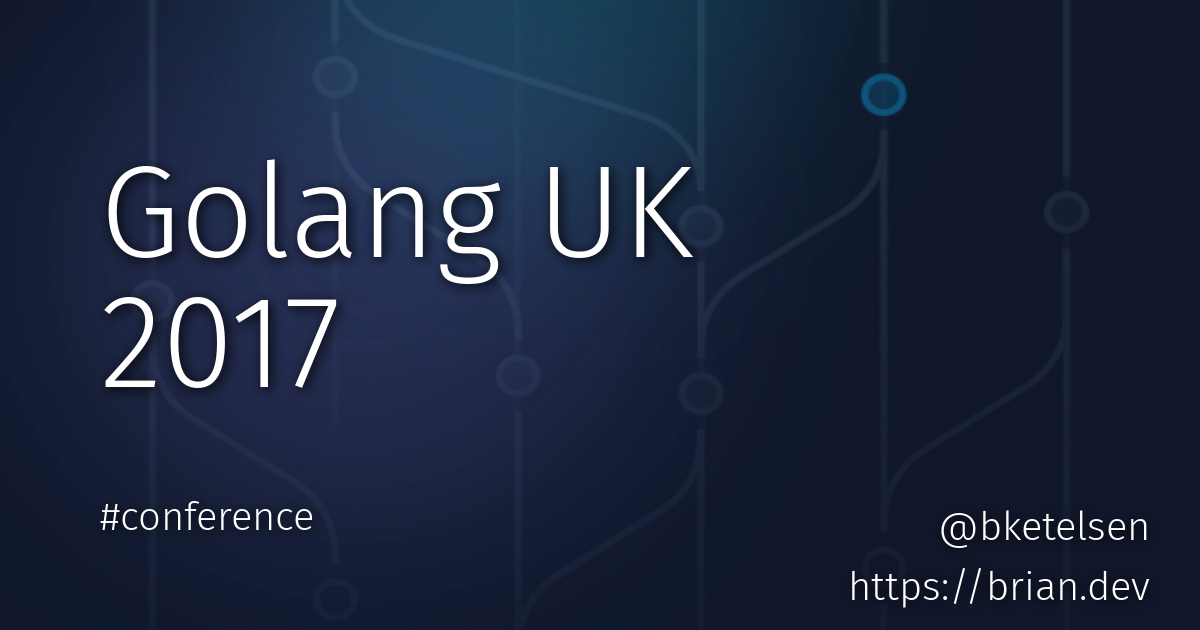
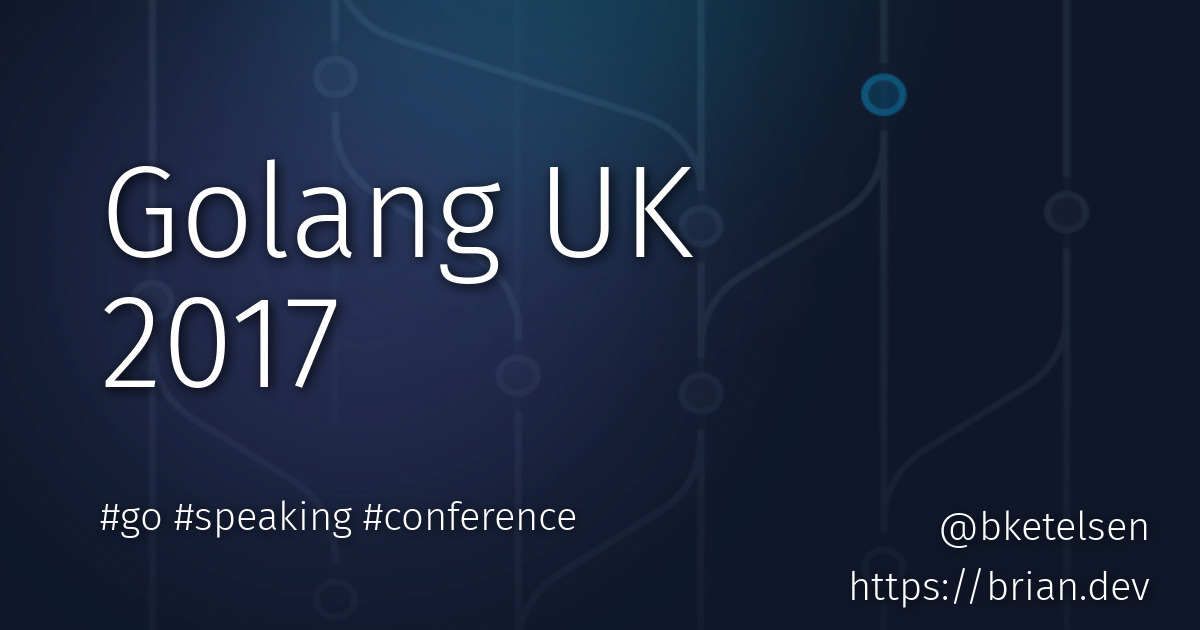
update tags

Changed region(s): [[0.0925, 0.7841, 0.4933, 0.8444]]

diff --git a/src/data/authors/default.md b/src/data/authors/default.md
@@ -2,7 +2,7 @@
 name: Brian Ketelsen
 avatar: /fixed/images/logo.png
 occupation: Cloud Developer Advocate
-company: Amazon/aws
+company: Amazon/AWS
 email: mail@bjk.fyi
 twitter: https://twitter.com/bketelsen
 linkedin: https://www.linkedin.com/bketelsen

diff --git a/src/data/elsewhere/stuttgart-go-meetup.md b/src/data/elsewhere/stuttgart-go-meetup.md
@@ -2,7 +2,7 @@
 title: Stuttgart Go Meetup
 date: '2018-09-20'
 summary: 'Presentation to Stuttgart Go Meetup about Go Modules'
-tags: ['go']
+tags: ['go', 'presentation','meetup']
 deck: stuttgart-modules
 ---
 
